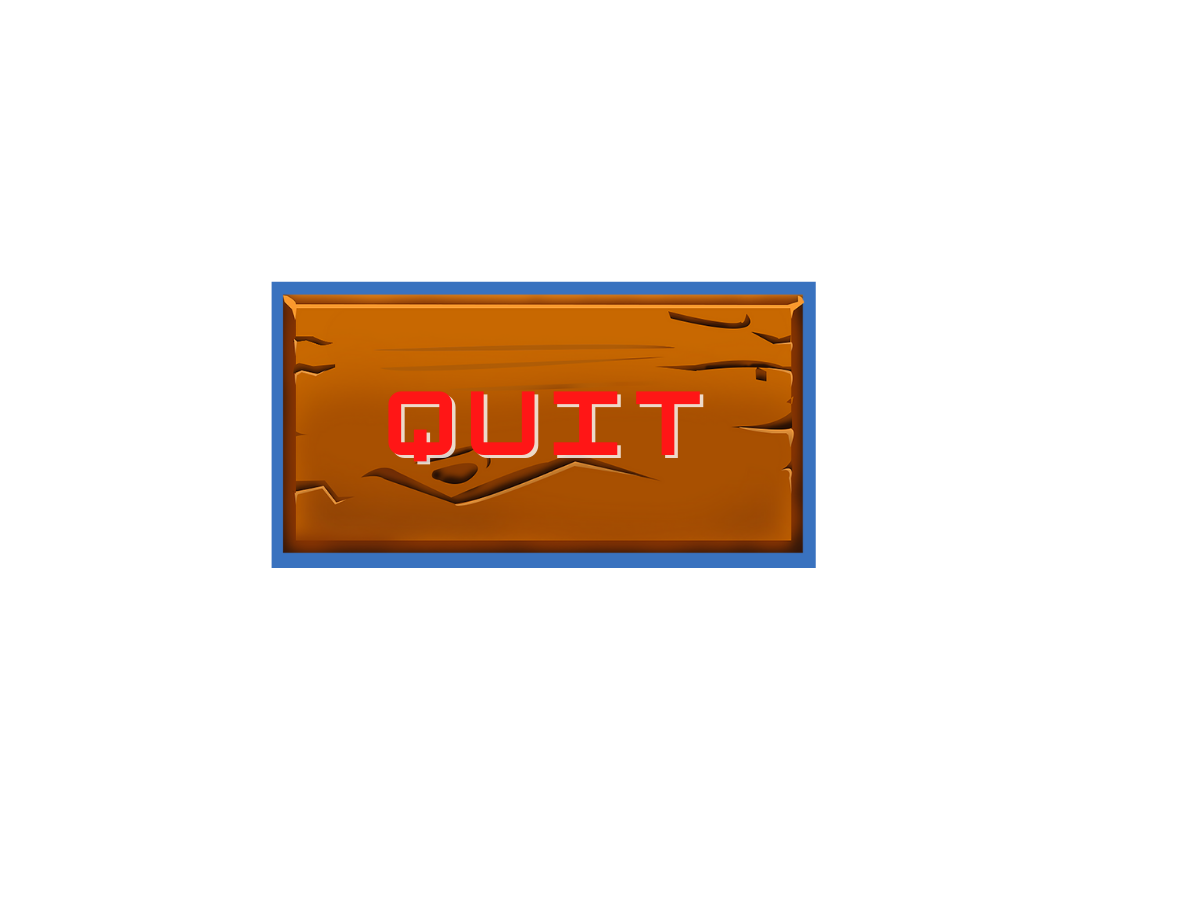
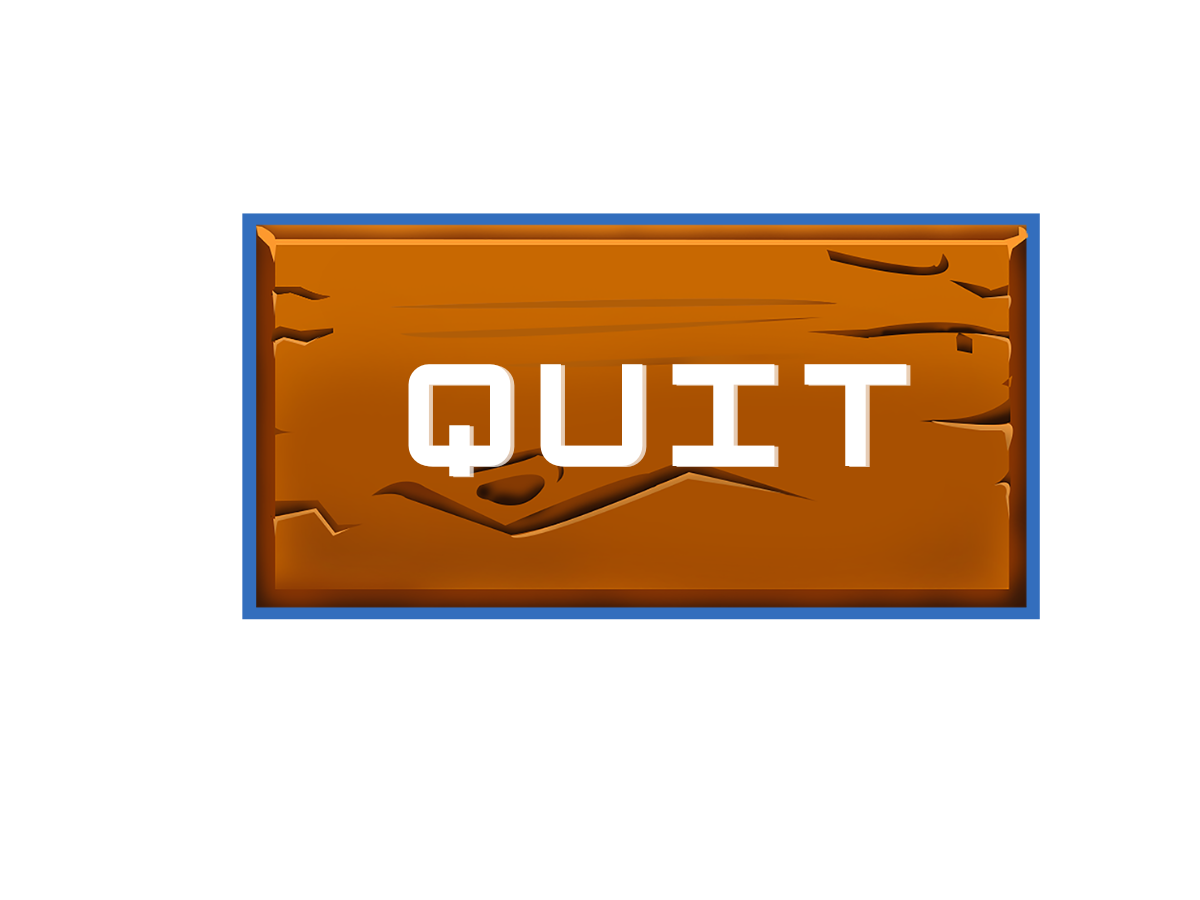
Ändrat Quit-knapparna
#s22g3-96 Fixed

Changed region(s): [[0.185, 0.2178, 0.8942, 0.7156]]

diff --git a/Othello/Views/Pages/EndPage.xaml b/Othello/Views/Pages/EndPage.xaml
@@ -31,7 +31,7 @@
         </Label>
 
         <StackPanel Orientation="Horizontal" Width="800" Height="600" Margin="310,275,190,25">
-            <Button x:Name="QuitBtn" BorderThickness="0,0,0,0"  Height="350" Width="350" Command="{Binding QuitGameCommand, Source={x:Static vm:MainViewModel.Instance}}">
+            <Button x:Name="QuitBtn" BorderThickness="0,0,0,0"  Height="183" Width="350" Command="{Binding QuitGameCommand, Source={x:Static vm:MainViewModel.Instance}}">
                 <Button.RenderTransform>
                     <TransformGroup>
                         <ScaleTransform/>
@@ -42,7 +42,7 @@
                 </Button.RenderTransform>
                 <Button.Template>
                     <ControlTemplate>
-                        <Image x:Name="Image" Source="/Images/QuitButton.png"/>
+                        <Image x:Name="Image" Source="/Images/ButtonQuit.png"/>
                         <ControlTemplate.Triggers>
                             <Trigger Property="IsMouseOver" Value="True">
                                 <Setter TargetName="Image"  Property="Source" Value="/Images/ButtonQuitHover.png"/>

diff --git a/Othello/Views/GameView.xaml b/Othello/Views/GameView.xaml
@@ -71,7 +71,7 @@
             </Label>
         </ItemsControl>
         <Ellipse Fill="Black" Width="40" Height="38" Margin="115,516,900,146"/>
-        <Button x:Name="QuitBtn" BorderThickness="0,0,0,0" Command="{Binding StartPageCommand, Source={x:Static vm:MainViewModel.Instance}}" Margin="818,300,-27,183">
+        <Button x:Name="QuitBtn" BorderThickness="0,0,0,0" Command="{Binding StartPageCommand, Source={x:Static vm:MainViewModel.Instance}}" Margin="837,350,26,210">
             <Button.RenderTransform>
                 <TransformGroup>
                     <ScaleTransform/>
@@ -82,7 +82,7 @@
             </Button.RenderTransform>
             <Button.Template>
                 <ControlTemplate>
-                    <Image x:Name="Image" Source="/Images/QuitButton.png"/>
+                    <Image x:Name="Image" Source="/Images/ButtonQuit.png"/>
                     <ControlTemplate.Triggers>
                         <Trigger Property="IsMouseOver" Value="True">
                             <Setter TargetName="Image"  Property="Source" Value="/Images/ButtonQuitHover.png"/>
